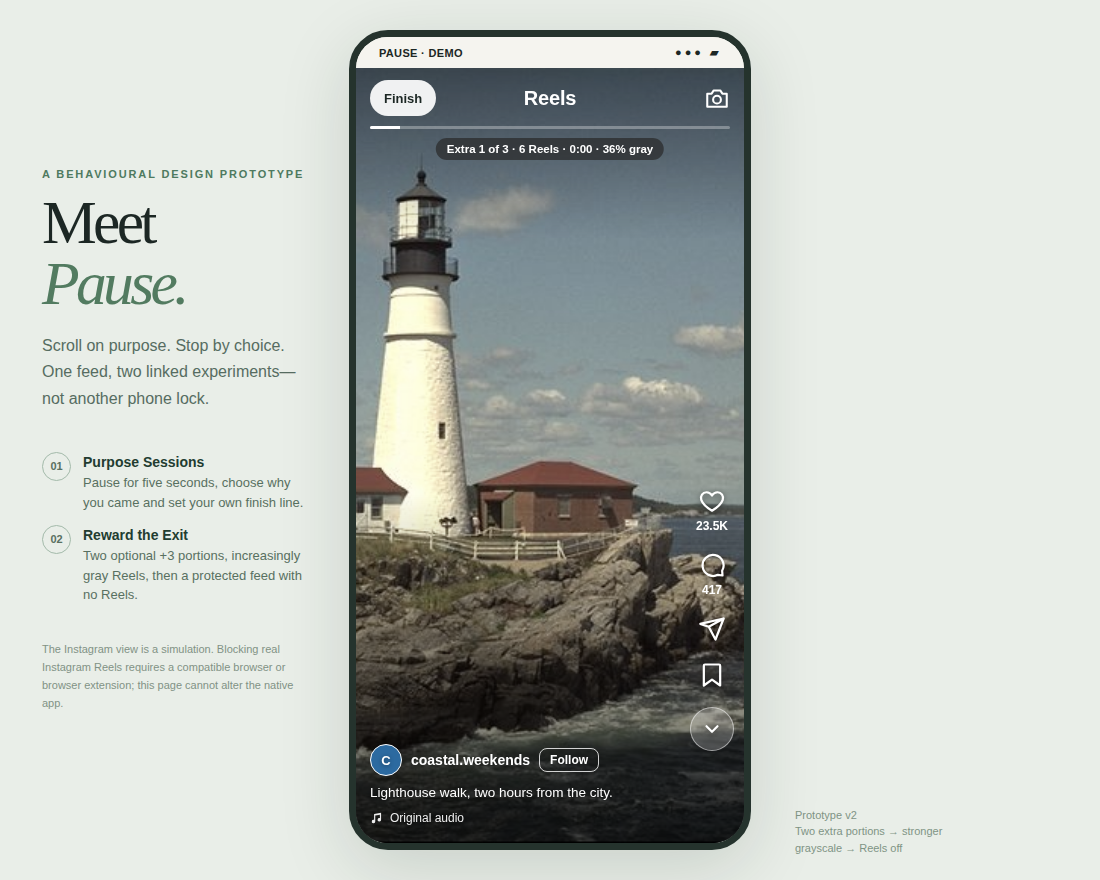
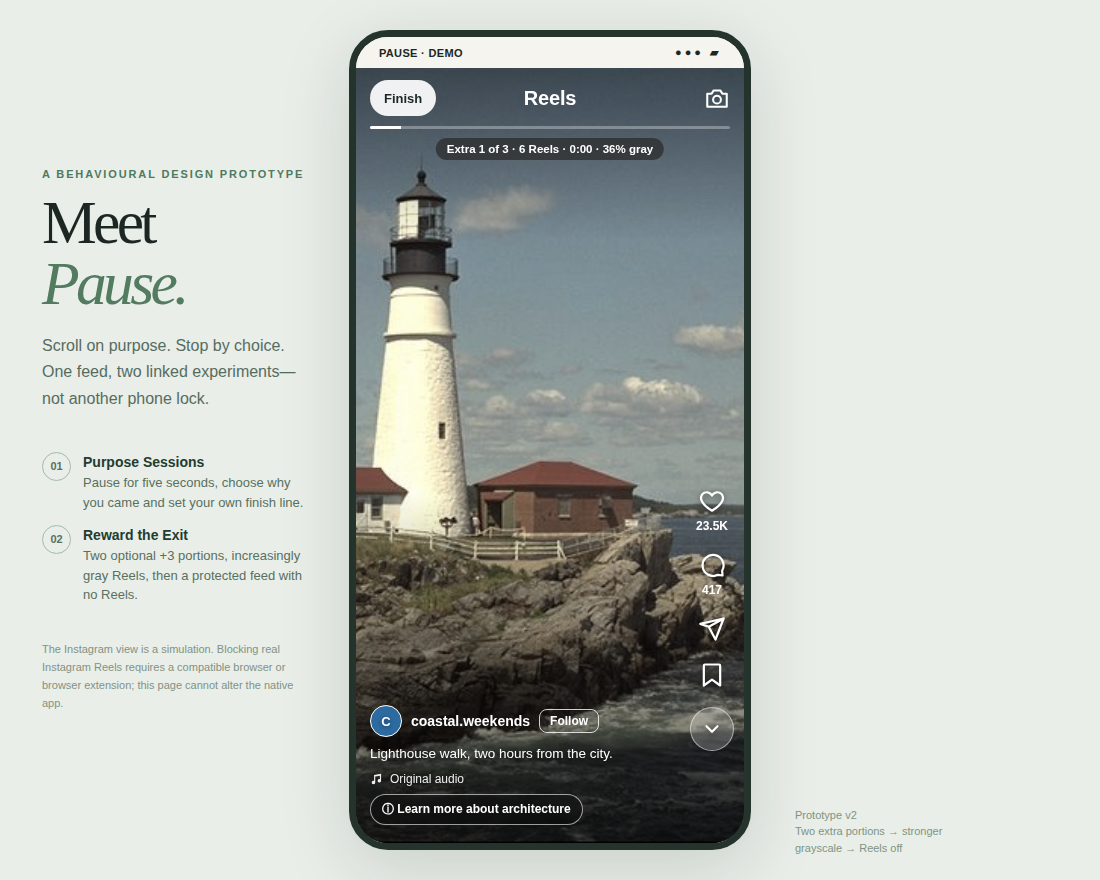
Personalise learning with your own words, demo-feed signals and home My Interests
- Every My Interests question accepts free text, matched to cards by keyword
- New cards: Formula 1, Horyu-ji, little black dress
- Reels 'Learn more' button; confirmed topics listed, removable and clearable
- My Interests section on the home screen; 'Continue to feed' label
- Demo-content note on cards; recipe and walk/stretch exit ideas
- Exit ideas restart from the best fit when free time changes

Claude-Session: https://claude.ai/code/session_01DMhTpXsU3YFuW6W5HLrjFW

Changed region(s): [[0.34, 0.7977, 0.5564, 0.9511]]

diff --git a/index.html b/index.html
@@ -201,6 +201,11 @@
     .web-ext{color:#2f6b4a;font-size:18px;text-decoration:none;padding:4px 6px}
     .web-frame{flex:1;width:100%;min-height:0;border:0;background:#fff}
     .web-foot{flex:none;margin:0;padding:8px 12px calc(10px + env(safe-area-inset-bottom,0px));font-size:11.5px;color:#6a786f;text-align:center;border-top:1px solid #eef1ee}.web-foot a{color:#2f6b4a;font-weight:700}
+    .card-demo{font-size:10.5px!important;color:#8a998d!important;line-height:1.4}
+    .ph-interests{display:flex;flex-direction:column;gap:3px;text-align:left;margin-top:18px;border:0;border-radius:16px;padding:11px 14px;background:rgba(255,255,255,.2);backdrop-filter:blur(10px);color:#fff}
+    .ph-int-h{font-size:12px;font-weight:800;letter-spacing:.06em;text-transform:uppercase;display:flex;justify-content:space-between}.ph-int-h em{font-style:normal;font-weight:700;text-transform:none;letter-spacing:0;text-decoration:underline;text-underline-offset:3px}
+    .ph-int-list{font-size:13px;line-height:1.4;opacity:.95}
+    .learn-more{align-self:flex-start;border:1px solid rgba(255,255,255,.6);background:rgba(0,0,0,.28);color:#fff;border-radius:999px;padding:6px 11px;font-size:12px;font-weight:650;backdrop-filter:blur(6px)}
   </style>
 </head>
 <body>
@@ -346,19 +351,31 @@
     {id:'jeans',tags:['interest:fashion'],title:'The tiny pocket on your jeans was for a watch',color:'#3a5fc4',
      body:'That small pocket inside the front right pocket of many jeans dates back to the late 1800s, when workers carried pocket watches. Levi Strauss and tailor Jacob Davis patented copper-riveted work trousers in 1873, and early designs included a small watch pocket to keep watches safe. Wristwatches later replaced pocket watches, but the pocket stayed. People now use it for coins, keys or guitar picks.',
      quiz:{q:'What was the small jeans pocket originally for?',opts:['Coins','Pocket watches','Matches'],a:1,why:'It was a watch pocket.'},
-     source:{name:'Wikipedia: Jeans',url:'https://en.wikipedia.org/wiki/Jeans'}}
+     source:{name:'Wikipedia: Jeans',url:'https://en.wikipedia.org/wiki/Jeans'}},
+    {id:'f1',tags:['interest:sports','topic:f1'],title:'An F1 car is an upside-down aeroplane',color:'#b3262d',
+     body:'An aeroplane wing is shaped to create lift. A Formula 1 car’s wings are turned the other way, so the air pushes the car down onto the track instead. This force is called downforce, and together with the shaped floor it presses the tyres into the road. The grip lets drivers take corners far faster than tyres alone would allow, with sideways forces of around five to six g.',
+     fact:'Engineers often say that, in theory, an F1 car produces enough downforce at high speed to drive upside down on a ceiling.',
+     source:{name:'Wikipedia: Formula One car',url:'https://en.wikipedia.org/wiki/Formula_One_car'}},
+    {id:'horyuji',tags:['topic:japan','interest:architecture'],title:'Why old Japanese pagodas survive earthquakes',color:'#7c4a2c',
+     body:'Hōryū-ji, a temple near Nara founded by Prince Shōtoku in 607, has wooden buildings from around the late 600s, among the oldest surviving wooden buildings in the world. Its five-storey pagoda has come through centuries of earthquakes. Japanese pagodas have a central pillar, the shinbashira, and stacked storeys that can sway separately, which helps absorb shaking. Carpenters joined the timbers with interlocking joints rather than relying on nails.',
+     quiz:{q:'What is the central pillar of a Japanese pagoda called?',opts:['Torii','Shinbashira','Tatami'],a:1,why:'The shinbashira runs up the centre of the pagoda.'},
+     source:{name:'Wikipedia: Hōryū-ji',url:'https://en.wikipedia.org/wiki/H%C5%8Dry%C5%AB-ji'}},
+    {id:'lbd',tags:['interest:fashion'],title:'The little black dress was called “Chanel’s Ford”',color:'#1f1f24',
+     body:'In 1926, American Vogue published a drawing of a short, simple black dress by Coco Chanel. The magazine compared it to the Ford Model T, calling it “Chanel’s Ford”, because, like the car, it was simple, practical and available to many women. Before then, black was mostly worn for mourning. The little black dress became a wardrobe staple that designers still reinvent almost every season.',
+     quiz:{q:'What did Vogue compare Chanel’s black dress to in 1926?',opts:['A Ford car','A tuxedo','A uniform'],a:0,why:'It called the dress “Chanel’s Ford”.'},
+     source:{name:'Wikipedia: Little black dress',url:'https://en.wikipedia.org/wiki/Little_black_dress'}},
   ];
   /* Shown when the profile is empty. */
   const DEFAULT_CARD='variable';
   /* ---------- Personalisation (stored only in this browser) ---------- */
   const PREF={
-    interests:[['psychology','Psychology'],['history','History'],['science','Science'],['books','Books'],['art','Art'],['finance','Finance'],['fitness','Fitness'],['cooking','Cooking'],['architecture','Architecture'],['nature','Nature'],['travel','Travel'],['languages','Languages'],['music','Music'],['technology','Technology'],['fashion','Fashion']],
+    interests:[['psychology','Psychology'],['history','History'],['science','Science'],['books','Books'],['art','Art'],['finance','Finance'],['fitness','Fitness'],['cooking','Cooking'],['architecture','Architecture'],['nature','Nature'],['travel','Travel'],['languages','Languages'],['music','Music'],['technology','Technology'],['fashion','Fashion'],['sports','Sports']],
     places:[['kyoto','Kyoto'],['rome','Rome'],['paris','Paris'],['barcelona','Barcelona'],['istanbul','Istanbul'],['london','London'],['new-york','New York']],
     fields:[['marketing','Marketing'],['design','Design'],['computing','Computer science'],['engineering','Engineering'],['medicine','Medicine & health'],['business','Business & finance'],['education','Education'],['psychology','Psychology'],['architecture','Architecture'],['arts','Arts & media'],['law','Law'],['student','Still deciding']]
   };
   const PHRASES={kyoto:['Japanese','Arigatō gozaimasu','ah-ree-GAH-toh go-ZAI-mass','Thank you (polite)'],rome:['Italian','Grazie mille','GRAHT-see-eh MEEL-leh','Thanks a lot'],paris:['French','Excusez-moi','ex-koo-ZAY mwah','Excuse me'],barcelona:['Catalan','Moltes gràcies','MOL-tes GRAH-see-es','Thank you very much'],istanbul:['Turkish','Teşekkür ederim','teh-shek-KEWR eh-deh-reem','Thank you']};
   const store={get:(k,d)=>{try{const v=JSON.parse(localStorage.getItem(k));return v==null?d:v}catch(e){return d}},set:(k,v)=>{try{localStorage.setItem(k,JSON.stringify(v))}catch(e){}},del:k=>{try{localStorage.removeItem(k)}catch(e){}}};
-  const EMPTY_PROFILE={interests:[],ig:[],visited:[],planned:[],visitedOther:[],plannedOther:[],field:[],explore:[],book:'',declined:[],onboarded:false,dismissed:false};
+  const EMPTY_PROFILE={interests:[],ig:[],visited:[],planned:[],visitedOther:[],plannedOther:[],field:[],explore:[],interestsOther:[],igOther:[],fieldOther:[],exploreOther:[],inferred:[],book:'',declined:[],onboarded:false,dismissed:false};
   let profile={...JSON.parse(JSON.stringify(EMPTY_PROFILE)),...store.get('pause_profile',{})};
   let feedback=store.get('pause_feedback',{});   // cardId -> 'interesting' | 'not' | 'knew'
   let seen=store.get('pause_seen',{});           // cardId -> times shown
@@ -371,9 +388,31 @@
      likes, saved posts or private activity. */
   const INTEREST_SOURCES={manual:()=>profile,demoFeed:()=>topicCounts(),instagramImport:null};
   const labelOf=(list,k)=>nameOf(PREF[list],k)||k;
-  const hasProfile=()=>['interests','ig','visited','planned','field','explore'].some(k=>profile[k].length)||profile.visitedOther.length||profile.plannedOther.length;
-  function topicCounts(){const c={};Object.values(saves).forEach(t=>{if(t)c[t]=(c[t]||0)+1});return c}
-  function pendingSuggestion(){const c=topicCounts();return Object.keys(c).find(t=>c[t]>=2&&!profile.interests.includes(t)&&!profile.ig.includes(t)&&!profile.declined.includes(t))||''}
+  const LIST_KEYS=['interests','ig','visited','planned','field','explore','visitedOther','plannedOther','interestsOther','igOther','fieldOther','exploreOther','inferred'];
+  const hasProfile=()=>LIST_KEYS.some(k=>(profile[k]||[]).length);
+  let learnMore=store.get('pause_learnmore',{});  // topic -> "Learn more" taps in the demo feed
+  /* Signals from the simulated feed only: saves plus "Learn more" taps, per topic. */
+  function topicCounts(){const c={};Object.values(saves).forEach(t=>{if(t)c[t]=(c[t]||0)+1});Object.entries(learnMore).forEach(([t,n])=>{c[t]=(c[t]||0)+n});return c}
+  /* Match the user's own words ("Formula 1", "Japanese architecture", "UX design") to card tags. Plain keyword matching, no AI. */
+  const KEYWORDS=[
+    [/formula ?1|\bf1\b|motorsport|grand prix|racing/,['interest:sports','topic:f1']],
+    [/japan|japanese|kyoto|nara|temple|pagoda|shrine/,['topic:japan','place:kyoto']],
+    [/\brome\b|roman|italy|italian/,['place:rome']],[/paris|france|french/,['place:paris']],[/barcelona|spain|spanish|gaud[ií]|catalan/,['place:barcelona']],
+    [/istanbul|turkey|turkish|byzantine/,['place:istanbul']],[/london|england|british/,['place:london']],[/new york|\bnyc\b|manhattan/,['place:new-york']],
+    [/marketing|advertis|brand|consumer|sales/,['field:marketing']],[/design|\bux\b|\bui\b|graphic/,['field:design']],
+    [/software|develop|programm|coding|computer|data|\bai\b|tech/,['field:computing','interest:technology']],[/engineer/,['field:engineering']],
+    [/medic|doctor|nurs|health|pharma|hospital/,['field:medicine']],[/teach|educat|school|tutor/,['field:education']],
+    [/financ|bank|invest|money|account|economic/,['interest:finance','field:business']],[/business|startup|entrepreneur|management/,['field:business']],
+    [/cook|food|bak|chef|recipe|kitchen/,['interest:cooking']],[/fashion|style|clothing|textile/,['interest:fashion']],
+    [/music|guitar|piano|sing|orchestra/,['interest:music']],[/book|read|novel|literature|poetry/,['interest:books']],
+    [/\bart\b|painting|museum|gallery|artist/,['interest:art']],[/architect|building/,['interest:architecture']],
+    [/psych|behaviou?r|mind|brain/,['interest:psychology']],[/histor|ancient|medieval/,['interest:history']],
+    [/scien|physics|chemistry|biology|space|astronom/,['interest:science']],[/bird|nature|animal|wildlife|plant|garden/,['interest:nature']],
+    [/travel|trip|backpack/,['interest:travel']],[/language|portuguese|linguist|vocabulary/,['interest:languages']],
+    [/fitness|gym|running|yoga|workout|sport|football|tennis|cycling/,['interest:fitness','interest:sports']]];
+  const matchTags=text=>{const t=String(text).toLowerCase(),out=[];KEYWORDS.forEach(([re,tags])=>{if(re.test(t))tags.forEach(x=>{if(!out.includes(x))out.push(x)})});return out};
+  const placeIn=text=>{const tag=matchTags(text).find(x=>x.startsWith('place:'));return tag?tag.slice(6):''};
+  function pendingSuggestion(){const c=topicCounts();return Object.keys(c).find(t=>c[t]>=2&&!profile.interests.includes(t)&&!profile.ig.includes(t)&&!profile.inferred.includes(t)&&!profile.declined.includes(t))||''}
   /* Pick ONE card: planned trips first, then subjects to explore, work, interests, Instagram interests, places visited.
      Cards rated "Not for me" or "Already knew this" are skipped; unseen cards win ties. */
   function pickCard(){const sources=[
@@ -382,7 +421,12 @@
       ...profile.field.map(f=>['field:'+f,`Because you work or study in ${labelOf('fields',f).toLowerCase()}`,4]),
       ...profile.interests.map(i=>['interest:'+i,`Because you’re into ${labelOf('interests',i).toLowerCase()}`,4]),
       ...profile.ig.map(i=>['interest:'+i,`Because you watch ${labelOf('interests',i).toLowerCase()} on Instagram`,3]),
-      ...profile.visited.map(p=>['place:'+p,`Because you’ve been to ${labelOf('places',p)}`,3])];
+      ...profile.visited.map(p=>['place:'+p,`Because you’ve been to ${labelOf('places',p)}`,3]),
+      ...profile.inferred.map(i=>['interest:'+i,`Because you often save ${labelOf('interests',i).toLowerCase()} posts`,3])];
+    /* The user's own words, matched to cards by keyword. */
+    [['plannedOther',6,t=>`Because you’re planning to visit ${t}`],['exploreOther',5,t=>`Because you want to learn about ${t}`],['fieldOther',4,t=>`Because you work or study in ${t}`],
+     ['interestsOther',4,t=>`Because you’re into ${t}`],['igOther',3,t=>`Because you watch ${t} on Instagram`],['visitedOther',3,t=>`Because you’ve been to ${t}`]]
+      .forEach(([k,w,why])=>profile[k].forEach(text=>matchTags(text).forEach(tag=>sources.push([tag,why(`“${esc(text)}”`),w]))));
     let best=null;
     LEARN_CARDS.forEach(card=>{if(feedback[card.id]==='not'||feedback[card.id]==='knew')return;
       sources.forEach(([tag,why,w])=>{if(!card.tags.includes(tag))return;const score=w*10-(seen[card.id]||0)*25+(feedback[card.id]==='interesting'?-3:0);
@@ -453,6 +497,7 @@
     return `<div class="phone-home">
       <div class="ph-clock"><div class="ph-time">${t}</div><div class="ph-date">${date}</div></div>
       <div class="ph-grid"><button class="ph-app" data-action="open" aria-label="Open Instagram"><span class="ph-tile">${IG_GLYPH}</span><span class="ph-label">Instagram</span></button><button class="ph-app" data-action="open-profile" aria-label="Pause: My Interests"><span class="ph-tile pause-tile">${PAUSE_GLYPH}</span><span class="ph-label">Pause</span></button>${OTHER_APPS().slice(0,6).map(([n,bg,svg])=>`<button class="ph-app other" data-action="other-app" aria-label="${n}"><span class="ph-tile" style="background:${bg}">${svg}</span><span class="ph-label">${n}</span></button>`).join('')}</div>
+      ${hasProfile()?`<button class="ph-interests" data-action="open-profile"><span class="ph-int-h">My Interests <em>Edit</em></span><span class="ph-int-list">${profileSummary()}</span></button>`:''}
       <div class="spacer"></div>
       ${!profile.onboarded&&!profile.dismissed&&!hasProfile()?`<div class="ph-note ph-invite"><b>Make Pause yours</b>Add a few interests and places so learning cards fit you. Optional, about a minute.<div class="btn-row"><button class="btn btn-sm" data-action="start-onboard" data-return="home">Set up</button><button class="btn alt btn-sm" data-action="dismiss-onboard">Not now</button></div></div>`:''}
       ${pendingSuggestion()?`<div class="ph-note">${suggestBox(pendingSuggestion())}</div>`:''}
@@ -468,7 +513,7 @@
     <p class="lede" style="text-align:center">Pause for five seconds. Then choose why you’re opening Instagram and where you’ll stop.</p>
     <div class="breath-orbit" aria-label="Breathing countdown"><span class="breath-count" id="breath-count">${state.countdown}</span></div>
     <p class="breath-caption" id="breath-caption">Breathe in, then out.</p><div class="spacer"></div>
-    <button class="btn full" data-action="purpose" ${state.countdown?'disabled':''}>${state.countdown?'Pause for '+state.countdown+'s':'Continue to Instagram →'}</button>
+    <button class="btn full" data-action="purpose" ${state.countdown?'disabled':''}>${state.countdown?'Pause for '+state.countdown+'s':'Continue to feed →'}</button>
     <button class="btn alt full" style="margin-top:10px" data-action="learn">Learn something instead ✦</button>
     <button class="btn text full" data-action="go-home">Leave for now</button>
     <p class="tip">You can always leave. Nothing is blocked.</p>
@@ -487,19 +532,20 @@
   }
   /* ---------- My Interests: onboarding (optional, shown once) and profile ---------- */
   const chips=(key,list)=>`<div class="chip-wrap">${PREF[list].map(([k,v])=>`<button class="pill sm${profile[key].includes(k)?' selected':''}" data-action="toggle-pref" data-key="${key}" data-val="${k}" aria-pressed="${profile[key].includes(k)}">${v}</button>`).join('')}</div>`;
-  const otherPlaces=key=>`<div class="add-row"><label class="sr-only" for="add-${key}">Add another place</label><input id="add-${key}" class="text-in" maxlength="40" placeholder="Somewhere else?"/><button class="btn quiet btn-sm" data-action="add-place" data-key="${key}">Add</button></div>
+  const customAdd=(key,ph)=>`<div class="add-row"><label class="sr-only" for="add-${key}">${ph}</label><input id="add-${key}" class="text-in" maxlength="40" placeholder="${ph}"/><button class="btn quiet btn-sm" data-action="add-place" data-key="${key}">Add</button></div>
     ${profile[key].length?`<div class="chip-wrap">${profile[key].map((p,i)=>`<button class="pill sm selected" data-action="remove-place" data-key="${key}" data-i="${i}" aria-label="Remove ${esc(p)}">${esc(p)} ×</button>`).join('')}</div>`:''}`;
+  const otherPlaces=key=>customAdd(key,'Somewhere else?');
   const bookField=()=>profile.interests.includes('books')?`<label class="field-label" for="book-in">Currently reading (optional)</label><input id="book-in" class="text-in" maxlength="60" placeholder="Book title" value="${esc(profile.book)}" data-input="book"/>`:'';
   const OB_STEPS=[
     ()=>`<h2>What are you<br/><i>into?</i></h2><p class="lede">Pick a few. Pause uses them to choose one learning card, never a feed.</p>
-      <div class="pref-block">${chips('interests','interests')}</div>${bookField()}
-      <details class="pref-more"${profile.ig.length?' open':''}><summary>What do you watch a lot of on Instagram?</summary><p class="small">Chosen by you. Pause does not read your Instagram account.</p>${chips('ig','interests')}</details>`,
+      <div class="pref-block">${chips('interests','interests')}</div>${customAdd('interestsOther','Something else? e.g. Formula 1')}${bookField()}
+      <details class="pref-more"${profile.ig.length||profile.igOther.length?' open':''}><summary>What do you watch, like or save a lot on Instagram?</summary><p class="small">Chosen by you. Pause does not read your Instagram account.</p>${chips('ig','interests')}${customAdd('igOther','e.g. Japanese architecture')}</details>`,
     ()=>`<h2>Places</h2><p class="lede">Where you’ve been and where you’re going.</p>
       <h3 class="pref-h">I’ve been to</h3>${chips('visited','places')}${otherPlaces('visitedOther')}
       <h3 class="pref-h">I’m planning to visit</h3>${chips('planned','places')}${otherPlaces('plannedOther')}`,
     ()=>`<h2>Work and<br/><i>curiosity</i></h2><p class="lede">What you do, and what you’d like to know more about.</p>
-      <h3 class="pref-h">I work or study in</h3>${chips('field','fields')}
-      <h3 class="pref-h">I’d like to explore</h3>${chips('explore','interests')}`
+      <h3 class="pref-h">What I do (work or study)</h3>${chips('field','fields')}${customAdd('fieldOther','Your own words, e.g. UX research')}
+      <h3 class="pref-h">I’d like to learn more about</h3>${chips('explore','interests')}${customAdd('exploreOther','e.g. Roman history')}`
   ];
   function onboard(){const n=state.obStep,last=n===OB_STEPS.length-1;return `<div class="inner">
       <div class="brand-row"><button class="btn text btn-sm" data-action="ob-close">Not now</button>${step('MY INTERESTS · '+(n+1)+' OF '+OB_STEPS.length)}</div>
@@ -515,18 +561,23 @@
       <h2 style="margin:14px 0 6px">My Interests</h2>
       <p class="lede">Pause uses these to pick one learning card and one idea for after you scroll. Tap to add or remove. Saved only on this device.</p>
       ${sug?suggestBox(sug):''}
-      <section class="pref-card"><h3 class="pref-h">Interests</h3>${chips('interests','interests')}${bookField()}</section>
-      <section class="pref-card"><h3 class="pref-h">I watch a lot of this on Instagram</h3><p class="small">Chosen by you.</p>${chips('ig','interests')}</section>
+      <section class="pref-card"><h3 class="pref-h">Interests</h3>${chips('interests','interests')}${customAdd('interestsOther','Something else?')}${bookField()}</section>
+      <section class="pref-card"><h3 class="pref-h">I watch, like or save this on Instagram</h3><p class="small">Chosen by you.</p>${chips('ig','interests')}${customAdd('igOther','Add a topic')}</section>
+      <section class="pref-card"><h3 class="pref-h">From the demo feed</h3><p class="small">Interests you confirmed after saving or tapping “Learn more”. Tap to remove.</p>
+        ${profile.inferred.length?`<div class="chip-wrap">${profile.inferred.map((t,i)=>`<button class="pill sm selected" data-action="remove-place" data-key="inferred" data-i="${i}" aria-label="Remove ${labelOf('interests',t)}">${labelOf('interests',t)} ×</button>`).join('')}</div>`:'<p class="small">None yet.</p>'}
+        ${Object.keys(topicCounts()).length?`<p class="small" style="margin-top:8px">Signals so far: ${Object.entries(topicCounts()).map(([t,n])=>`${labelOf('interests',t).toLowerCase()} (${n})`).join(', ')}</p><button class="btn text btn-sm" data-action="clear-signals">Clear demo-feed signals</button>`:''}</section>
       <section class="pref-card"><h3 class="pref-h">I’ve been to</h3>${chips('visited','places')}${otherPlaces('visitedOther')}</section>
       <section class="pref-card"><h3 class="pref-h">I’m planning to visit</h3>${chips('planned','places')}${otherPlaces('plannedOther')}</section>
-      <section class="pref-card"><h3 class="pref-h">I work or study in</h3>${chips('field','fields')}</section>
-      <section class="pref-card"><h3 class="pref-h">I’d like to explore</h3>${chips('explore','interests')}</section>
+      <section class="pref-card"><h3 class="pref-h">What I do (work or study)</h3>${chips('field','fields')}${customAdd('fieldOther','Your own words')}</section>
+      <section class="pref-card"><h3 class="pref-h">I’d like to learn more about</h3>${chips('explore','interests')}${customAdd('exploreOther','Add a subject')}</section>
       <section class="pref-card"><h3 class="pref-h">Instagram import</h3><p class="small">Not available in this prototype. A future version could let you upload your own Instagram data export, only with your consent. Pause will never ask for your Instagram password.</p></section>
       <section class="pref-card"><h3 class="pref-h">Learning history</h3><p class="small">${rated?`You’ve rated ${rated} card${rated===1?'':'s'}. Cards you marked “Not for me” or “Already knew this” are skipped.`:'No cards rated yet.'}</p>${rated||Object.keys(seen).length?'<button class="btn text btn-sm" data-action="clear-history">Clear learning history</button>':''}</section>
       ${state.confirmDelete?'<div class="danger-box"><b>Delete all your preferences?</b><p class="small">This removes your interests, places, ratings and saved-topic signals from this device.</p><div class="btn-row"><button class="btn btn-sm" data-action="delete-all">Delete everything</button><button class="btn alt btn-sm" data-action="cancel-delete">Keep them</button></div></div>':'<button class="btn text full" data-action="ask-delete">Delete all my preferences</button>'}
       <button class="btn text full" data-action="start-onboard">Run the short setup again</button>
     </div>`}
-  function suggestBox(t){const n=topicCounts()[t];return `<div class="suggest"><b>You saved ${n} ${labelOf('interests',t).toLowerCase()} posts in the demo feed.</b><span>Add ${labelOf('interests',t).toLowerCase()} to your interests?</span><div class="btn-row"><button class="btn btn-sm" data-action="accept-suggest" data-topic="${t}">Add it</button><button class="btn alt btn-sm" data-action="decline-suggest" data-topic="${t}">No thanks</button></div></div>`}
+  function profileSummary(){const items=[...profile.planned.map(p=>'✈ '+labelOf('places',p)),...profile.plannedOther.map(t=>'✈ '+esc(t)),...profile.interests.map(i=>labelOf('interests',i)),...profile.interestsOther.map(esc),...profile.field.map(f=>labelOf('fields',f)),...profile.fieldOther.map(esc),...profile.explore.map(i=>labelOf('interests',i)),...profile.exploreOther.map(esc),...profile.inferred.map(i=>labelOf('interests',i)),...profile.ig.map(i=>labelOf('interests',i)),...profile.igOther.map(esc),...profile.visited.map(p=>labelOf('places',p)),...profile.visitedOther.map(esc)];
+    const uniq=[...new Set(items)];return uniq.slice(0,5).join(' · ')+(uniq.length>5?` · +${uniq.length-5} more`:'')}
+  function suggestBox(t){const n=topicCounts()[t];return `<div class="suggest"><b>You saved or tapped “Learn more” on ${n} ${labelOf('interests',t).toLowerCase()} posts in the demo feed.</b><span>Add ${labelOf('interests',t).toLowerCase()} to your interests?</span><div class="btn-row"><button class="btn btn-sm" data-action="accept-suggest" data-topic="${t}">Add it</button><button class="btn alt btn-sm" data-action="decline-suggest" data-topic="${t}">No thanks</button></div></div>`}
 
   /* ---------- One personalised learning card ---------- */
   function enterLearn(from){clearTimers();const pick=pickCard();state.learnFrom=from;state.cardId=pick.card.id;state.cardWhy=pick.why;state.cardPersonal=pick.personal;state.quizPick=null;state.fbNote='';
@@ -548,6 +599,7 @@
          <div class="fb" role="group" aria-label="Was this card for you?">${[['interesting','Interesting'],['not','Not for me'],['knew','Already knew this']].map(([k,v])=>`<button class="pill sm${fb===k?' selected':''}" data-action="feedback" data-v="${k}" aria-pressed="${fb===k}">${v}</button>`).join('')}</div>
          ${state.fbNote?`<p class="fb-note">${state.fbNote}</p>`:''}
          <p class="card-end">That’s the whole card.</p>
+         <p class="card-demo">Curated demo card, checked against the linked source. Not AI-generated and not live news.</p>
        </div>
      </article>
      <div class="spacer"></div>
@@ -558,19 +610,21 @@
   /* ---------- Reward the Exit: one personalised, optional idea ---------- */
   const TIMES=[['2','2 min'],['10','10 min'],['30','30 min']];
   function exitIdeas(){const mins=Number(state.freeTime),r=state.reason,a=state.after,I=k=>profile.interests.includes(k)||profile.explore.includes(k);
-    const planned=profile.planned.find(p=>PHRASES[p]);const ideas=[];
+    const planned=[...profile.planned,...profile.plannedOther.map(placeIn)].find(p=>PHRASES[p]);const ideas=[];
+    const Iw=k=>I(k)||profile.inferred.includes(k)||[...profile.interestsOther,...profile.exploreOther].some(t=>matchTags(t).includes('interest:'+k));
     const add=(id,m,score,title,desc,why)=>{if(m<=mins)ideas.push({id,mins:m,score,title,desc,why})};
     if(planned)add('phrase',2,5+(I('languages')?2:0),`Learn one useful phrase for ${labelOf('places',planned)}`,'Thirty seconds, and you’ll use it on your trip.',`you’re planning to visit ${labelOf('places',planned)}`);
     if(state.finishedBy!=='learn')add('card',2,(r==='learn'?7:3)+(a==='learn'?3:0)+(hasProfile()?1:0),'Learn one thing picked for you','One short card, then you’re done.',r==='learn'?'you came to find something useful':'it takes a minute');
-    add('read',10,(a==='read'?6:0)+(I('books')?4:0)+(r==='habit'&&a==='read'?3:0),profile.book?`Read five pages of ${esc(profile.book)}`:'Read five pages of your book','Pick up where you left off.',I('books')?'you’re into books':'you planned to read afterwards');
-    add('history',10,I('history')?4:0,'Read a history article you’ve saved','Something you chose, not something the feed chose.','you’re into history');
-    add(mins>=10?'walk':'stretch',mins>=10?10:2,(a==='move'?6:0)+(I('fitness')?4:0)+(r==='break'?2:0)+(r==='habit'&&a==='move'?3:0),mins>=10?'Take a short walk':'Stretch for two minutes','Stand up, roll your shoulders, look out of a window.',I('fitness')?'you’re into fitness':'you planned to move afterwards');
+    add('read',10,(a==='read'?6:0)+(Iw('books')?4:0)+(r==='habit'&&a==='read'?3:0),profile.book?`Read five pages of ${esc(profile.book)}`:'Read five pages of your book','Pick up where you left off.',I('books')?'you’re into books':'you planned to read afterwards');
+    add('recipe',30,Iw('cooking')?5:0,'Try a recipe you saved','Cook something you bookmarked instead of scrolling past more.','you’re into cooking');
+    add('history',10,Iw('history')?4:0,'Read a history article you’ve saved','Something you chose, not something the feed chose.','you’re into history');
+    add(mins>=10?'walk':'stretch',mins>=10?10:2,(a==='move'?6:0)+(Iw('fitness')?4:0)+(r==='break'?2:0)+(r==='habit'&&a==='move'?3:0),mins>=10?'Take a five-minute walk or stretch':'Stretch for two minutes','Stand up, roll your shoulders, look out of a window.',Iw('fitness')?'you’re into fitness':'you planned to move afterwards');
     add('eyes',2,(a==='rest'?6:0)+(r==='break'?2:0),'Rest your eyes','Look at something far away for twenty seconds.','you wanted a break');
     add('friend',2,(a==='friend'?6:0)+(r==='friends'?6:0),'Message one friend directly','Skip the feed and send one real message.',r==='friends'?'you came to catch up with friends':'you planned to message a friend');
     if(r==='habit')add('puzzle',2,3,'Try a two-minute puzzle','One question, one answer. Then you’re done.','you opened Instagram out of habit');
     return ideas.filter(x=>x.score>0).sort((x,y)=>y.score-x.score);}
   function exitScreen(){const early=state.finishedBy==='early',detour=state.finishedBy==='learn';const title=detour?'You chose a different kind of break.':early?'You decided when to stop.':'You reached your finish line.';
-    const ideas=exitIdeas();const idea=ideas.length?ideas[state.ideaIdx%ideas.length]:null;const ph=idea&&idea.id==='phrase'?PHRASES[profile.planned.find(p=>PHRASES[p])]:null;
+    const ideas=exitIdeas();const idea=ideas.length?ideas[state.ideaIdx%ideas.length]:null;const ph=idea&&idea.id==='phrase'?PHRASES[[...profile.planned,...profile.plannedOther.map(placeIn)].find(p=>PHRASES[p])]:null;
     return `<div class="inner">
       <div class="brand-row">${brand()}${step('02 · REWARD THE EXIT')}</div>
       <div class="checkmark" style="margin:18px 0 16px">✓</div><h2>${title}</h2>
@@ -664,6 +718,7 @@
         <div class="reel-user"><span class="av" style="background:${reel.color}">${reel.user[0].toUpperCase()}</span>${reel.user}<button class="follow" tabindex="-1">Follow</button></div>
         <p class="reel-cap">${reel.cap}</p>
         <p class="reel-audio">${ICON.music}${reel.audio}</p>
+        ${TOPIC[reel.img]?`<button class="learn-more" data-action="learn-more" data-topic="${TOPIC[reel.img]}">ⓘ Learn more about ${labelOf('interests',TOPIC[reel.img]).toLowerCase()}</button>`:''}
       </div>
     </div>
     ${state.notice?`<div class="feed-nudge" role="status">You came here to <b>${esc(nameOf(OPTIONS.reasons,state.reason).toLowerCase())}</b>. Still what you want to do?<button class="nudge-x" data-action="dismiss-notice" aria-label="Dismiss">×</button></div>`:''}`;
@@ -738,7 +793,7 @@
   function goHome(){clearTimers();state.screen='home';state.notice=false;render()}
   function open(){clearTimers();if(state.platform==='instagram'&&state.reelsDisabled){state.screen='protected-feed';render();return}
     state.screen='pause';state.countdown=5;startCountdown()}
-  function startCountdown(){clearInterval(countdownTimer);render();if(state.countdown<=0)return;countdownTimer=setInterval(()=>{if(state.screen!=='pause'){clearInterval(countdownTimer);return}state.countdown--;const number=document.getElementById('breath-count');if(number)number.textContent=state.countdown||'✓';const button=root.querySelector('[data-action="purpose"]');if(button){button.disabled=!!state.countdown;button.textContent=state.countdown?'Pause for '+state.countdown+'s':'Continue to Instagram →'}if(state.countdown<=0){clearInterval(countdownTimer);const caption=document.getElementById('breath-caption');if(caption)caption.textContent='Now choose: Instagram, one thing to learn, or leave.'}},1000)}
+  function startCountdown(){clearInterval(countdownTimer);render();if(state.countdown<=0)return;countdownTimer=setInterval(()=>{if(state.screen!=='pause'){clearInterval(countdownTimer);return}state.countdown--;const number=document.getElementById('breath-count');if(number)number.textContent=state.countdown||'✓';const button=root.querySelector('[data-action="purpose"]');if(button){button.disabled=!!state.countdown;button.textContent=state.countdown?'Pause for '+state.countdown+'s':'Continue to feed →'}if(state.countdown<=0){clearInterval(countdownTimer);const caption=document.getElementById('breath-caption');if(caption)caption.textContent='Now choose: Instagram, one thing to learn, or leave.'}},1000)}
   function begin(){if(state.platform==='instagram'&&state.reelsDisabled){state.screen='protected-feed';render();return}
     clearTimers();save();state.views=1;state.checkpoint=state.limit==='120'?120:Number(state.limit);state.extraRounds=0;state.extraRoundStart=0;state.elapsed=0;state.sessionStart=Date.now();state.progress=0;state.noticeShown=false;state.notice=false;state.finishedBy='';state.screen='feed';lastTick=performance.now();render();feedTimer=setInterval(tick,100)}
   function tick(){if(state.screen!=='feed')return;if(document.hidden){lastTick=performance.now();return}const now=performance.now(),delta=Math.min(250,now-lastTick);lastTick=now;state.elapsed+=delta/1000;state.progress=Math.min(100,state.progress+delta/70);const bar=document.getElementById('reel-progress');if(bar)bar.style.width=state.progress+'%';const countEl=document.getElementById('feed-count');if(countEl)countEl.textContent=displayCount();const art=document.getElementById('reel-art');if(art)art.style.filter=`grayscale(${grayPercent()}%)`;const label=document.getElementById('gray-label');if(label&&state.extraRounds)label.textContent=`Round ${state.extraRounds} of 2 · ${grayPercent()}% gray`;if(state.progress>=100)next();}
@@ -749,7 +804,7 @@
   function finish(how){clearTimers();state.screen='exit';state.finishedBy=how;state.nextPick='';state.ideaIdx=0;render()}
   function continueAfter(){if(state.extraRounds>=2)return;state.extraRounds++;state.views++;state.extraRoundStart=state.views;state.checkpoint=state.views+2;state.notice=false;state.screen='feed';state.progress=0;clearInterval(feedTimer);lastTick=performance.now();render();feedTimer=setInterval(tick,100)}
   root.addEventListener('click',event=>{
-    const choice=event.target.closest('[data-set]');if(choice){const key=choice.dataset.set;state[key]=choice.dataset.value;save();render();return}
+    const choice=event.target.closest('[data-set]');if(choice){const key=choice.dataset.set;state[key]=choice.dataset.value;if(key==='freeTime'){state.ideaIdx=0;state.nextPick=''}save();render();return}
     const target=event.target.closest('[data-action]');if(!target||target.disabled)return;
     const action=target.dataset.action;
     switch(action){case 'open':open();break;case 'go-home':goHome();break;case 'purpose':if(state.countdown<=0){clearTimers();state.screen='setup';render();}break;
@@ -773,16 +828,19 @@
       case 'toggle-pref':{const k=target.dataset.key,v=target.dataset.val,arr=profile[k];const at=arr.indexOf(v);if(at>=0)arr.splice(at,1);else arr.push(v);saveProfile();keepScroll(render);break;}
       case 'add-place':{const k=target.dataset.key,inp=document.getElementById('add-'+k),v=(inp&&inp.value||'').trim().slice(0,40);if(v&&!profile[k].some(x=>x.toLowerCase()===v.toLowerCase())){profile[k].push(v);saveProfile()}keepScroll(render);break;}
       case 'remove-place':profile[target.dataset.key].splice(+target.dataset.i,1);saveProfile();keepScroll(render);break;
-      case 'accept-suggest':{const t=target.dataset.topic;if(!profile.interests.includes(t))profile.interests.push(t);saveProfile();toast(`Added ${labelOf('interests',t).toLowerCase()} to your interests.`);keepScroll(render);break;}
+      case 'accept-suggest':{const t=target.dataset.topic;if(!profile.inferred.includes(t))profile.inferred.push(t);saveProfile();toast(`Added ${labelOf('interests',t).toLowerCase()} to your interests.`);keepScroll(render);break;}
       case 'decline-suggest':profile.declined.push(target.dataset.topic);saveProfile();keepScroll(render);break;
       case 'clear-history':feedback={};seen={};store.del('pause_feedback');store.del('pause_seen');keepScroll(render);break;
       case 'ask-delete':state.confirmDelete=true;keepScroll(render);break;
       case 'cancel-delete':state.confirmDelete=false;keepScroll(render);break;
-      case 'delete-all':profile={...EMPTY_PROFILE,interests:[],ig:[],visited:[],planned:[],visitedOther:[],plannedOther:[],field:[],explore:[],declined:[]};feedback={};seen={};saves={};['pause_profile','pause_feedback','pause_seen','pause_saves'].forEach(store.del);state.confirmDelete=false;toast('Your preferences were deleted.');render();break;
+      case 'delete-all':profile=JSON.parse(JSON.stringify(EMPTY_PROFILE));feedback={};seen={};saves={};learnMore={};['pause_profile','pause_feedback','pause_seen','pause_saves','pause_learnmore'].forEach(store.del);state.confirmDelete=false;toast('Your preferences were deleted.');render();break;
       case 'feedback':{const v=target.dataset.v;if(feedback[state.cardId]===v){delete feedback[state.cardId];state.fbNote=''}else{feedback[state.cardId]=v;state.fbNote=v==='interesting'?'Glad it was worth it.':v==='not'?'Got it. You won’t see this card again.':'Nice. We’ll skip this one next time.'}store.set('pause_feedback',feedback);keepScroll(render);break;}
       case 'quiz':state.quizPick=+target.dataset.i;keepScroll(render);break;
       case 'do-idea':{const id=target.dataset.id;state.nextPick=id;if(id==='card')enterLearn('exit');else if(id==='puzzle'){state.puzzle++;state.puzzleShown=false;state.screen='puzzle';render()}else keepScroll(render);break;}
       case 'next-idea':state.ideaIdx++;state.nextPick='';keepScroll(render);break;
+      case 'learn-more':{const t=target.dataset.topic;learnMore[t]=(learnMore[t]||0)+1;store.set('pause_learnmore',learnMore);const n=topicCounts()[t]||0;
+        toast(pendingSuggestion()===t?`Noted. You’ve shown interest in ${labelOf('interests',t).toLowerCase()} ${n} times. Pause will ask before adding it to your interests.`:`Noted. Pause may suggest ${labelOf('interests',t).toLowerCase()} for a learning card later.`);break;}
+      case 'clear-signals':saves={};learnMore={};store.del('pause_saves');store.del('pause_learnmore');keepScroll(render);break;
       case 'save-item':{const item=target.dataset.item,topic=target.dataset.topic;if(saves[item]!==undefined){delete saves[item];target.classList.remove('on');toast('Removed from saved.')}else{saves[item]=topic;target.classList.add('on');const n=topicCounts()[topic]||0;toast(n>=2&&pendingSuggestion()===topic?`Saved. That’s ${n} ${labelOf('interests',topic).toLowerCase()} posts. Pause will ask before adding it to your interests.`:'Saved.')}store.set('pause_saves',saves);break;}
       case 'open-web':state.webUrl=target.dataset.url;state.learnScroll=root.scrollTop;state.screen='web';render();break;
       case 'web-done':state.screen='learn';render();root.scrollTop=state.learnScroll||0;break;

diff --git a/README.md b/README.md
@@ -5,7 +5,7 @@ Double-click `index.html` to use this **offline demo** (keep the `photos/` folde
 ## Exact experience
 
 1. The demo opens on a phone home screen. Tap the **Instagram** app. Pause steps in first with a five-second timer. Instagram is a simulation; the demo does not connect to your account.
-2. Complete the five-second pause and choose the three commitments (why you're here, your finish line, and what you might do afterwards). After the pause there are three options: **Continue to Instagram**, **Learn something instead**, or **Leave for now**. **Progressive grayscale is checked by default**. It remains off visually during the initial portion.
+2. Complete the five-second pause and choose the three commitments (why you're here, your finish line, and what you might do afterwards). After the pause there are three options: **Continue to feed**, **Learn something instead**, or **Leave for now**. **Progressive grayscale is checked by default**. It remains off visually during the initial portion.
 3. Scroll to the initial finish line (for quick tests, select **5 Reels**) using swipe up, mouse wheel or Next. Select **+3 more Reels** at the checkpoint. The next Reel is a new one, grayscale begins **immediately at 35%** and fades steadily to **65%** across these three Reels.
 4. At the second checkpoint, select the **second and final +3 Reels**. Grayscale begins at **70%** and fades steadily to **100%** across these three Reels.
 5. At the third checkpoint **there is no more +3 button**. The Reels section is disabled and only **regular feed and DMs** remain accessible; the protected view excludes in-feed Reels as well. You can browse sample posts, enter a sample chat, and send a **local-only demo message**.
@@ -29,9 +29,11 @@ The counter under the progress bar always shows Reels and time together, for exa
 
 ## Personalised micro-learning
 
-**My Interests (optional).** The first time, the home screen offers a short, skippable setup in three steps: interests (plus what you watch a lot of on Instagram, chosen by you), places you've been and places you're planning to visit, and work or study plus subjects to explore. Every step can be skipped, it isn't shown again, and everything can be edited or deleted later from the **Pause** app on the home screen.
+**My Interests (optional).** The first time, the home screen offers a short, skippable setup in three steps: interests (plus what you watch, like or save a lot on Instagram, chosen by you), places you've been and places you're planning to visit, and work or study plus subjects you'd like to learn more about. Every question has chips **and a box for your own words** (for example "Formula 1", "Marketing student" or "Nara, Japan"). Every step can be skipped and setup isn't shown again. Once you have a profile, a **My Interests** section on the home screen shows it; tap it (or the **Pause** app) to edit or delete anything.
 
-**Learn something instead.** After the five-second pause, this shows **one** card picked from your profile: planned trips first, then subjects to explore, work or study, interests, Instagram interests, and places visited. Each card has:
+Your own words are matched to card topics with a plain keyword list (for example "marketing" → the scarcity card, "Formula 1" → the F1 card, "Japan" → the Kyoto card). This is simple matching, not AI.
+
+**Learn something instead.** After the five-second pause, this shows **one** card (examples: Kyoto, Rome, marketing, Formula 1, fashion, cooking) picked from your profile: planned trips first, then subjects to explore, work or study, interests, Instagram interests, and places visited. Each card has:
 - a heading saying why it was picked ("Because you're planning to visit Rome")
 - a photo where a relevant one exists (sky, parrots, lighthouse); otherwise a colour band
 - a 60–100-word explanation (about 30–60 seconds)
@@ -39,12 +41,13 @@ The counter under the progress bar always shows Reels and time together, for exa
 - a source link (Wikipedia, NASA, WHO, Britannica, Investopedia). Wikipedia sources open inside the phone in a small viewer with **Done** to return to the card; other sites don't allow being shown inside another page, so they open in a new tab
 - feedback: Interesting / Not for me / Already knew this (cards marked "Not for me" or "Already knew this" are skipped next time)
 - a Done button. There is no next card, autoplay, streak or quota.
+- a note that it is a curated demo card checked against its source, not AI-generated and not live news.
 
 If you skip setup, you get a general card about variable rewards and an invitation to personalise.
 
-**Learning from the demo feed.** You can save Reels and posts in the simulated Instagram. When you've saved two posts on the same topic (for example, architecture), Pause asks on the home screen and in My Interests whether to add it. Nothing is added without your confirmation.
+**Learning from the demo feed.** In the simulated Instagram you can save Reels and posts, and some Reels have an **ⓘ Learn more about …** button. When you've saved or tapped Learn more twice on the same topic (for example, nature), Pause asks on the home screen and in My Interests whether to add it. Nothing is added without your confirmation. Confirmed topics appear under **From the demo feed** in My Interests, where you can remove them, see the raw signal counts, and clear all signals.
 
-**Reward the Exit.** When you stop, Pause offers **one** optional idea based on why you opened Instagram, what you planned to do afterwards, your profile and how much time you have (2, 10 or 30 minutes). Examples: read five pages of the book you're reading, learn one phrase for a city you're visiting (Japanese, Italian, French, Catalan, Turkish), stretch or take a short walk, message a friend, a two-minute puzzle, or one learning card. "Another idea" shows a different one, and "I'm done for now" is always there.
+**Reward the Exit.** When you stop, Pause offers **one** optional idea based on why you opened Instagram, what you planned to do afterwards, your profile and how much time you have (2, 10 or 30 minutes). Examples: read five pages of the book you're reading, learn one phrase for a city you're visiting (Japanese, Italian, French, Catalan, Turkish), take a five-minute walk or stretch, try a recipe you saved (30 minutes, if you're into cooking), read a history article you saved, message a friend, a two-minute puzzle, or one learning card. "Another idea" shows a different one, and "I'm done for now" is always there.
 
 ## What is real and what is simulated
 
@@ -52,9 +55,10 @@ If you skip setup, you get a general card about variable rewards and an invitati
 |---|---|
 | Five-second pause, commitments, purpose reminder, Reel counter, finish line, grayscale extensions, protected mode | Fully working in the simulation |
 | My Interests setup, editing and deleting | Fully working; stored only in this browser (localStorage) |
-| Card selection, quiz, feedback, source links | Fully working; 27 hand-written, fact-checked cards |
+| Card selection, quiz, feedback, source links | Fully working; 29 hand-written cards checked against their linked sources |
+| Matching your own words to cards | Working; simple keyword list, not AI |
 | Exit ideas and travel phrases | Fully working; chosen from a fixed list |
-| Saving posts and interest suggestions | Working inside the demo feed only |
+| Saving posts, Learn more and interest suggestions | Working inside the demo feed only |
 | Instagram feed, Reels, messages | Simulated. No connection to Instagram |
 | Importing Instagram interests | **Not implemented.** The code has a placeholder (`INTEREST_SOURCES.instagramImport`) for a future, consent-based import such as uploading your own Instagram data export. Pause never asks for Instagram passwords, calls Instagram APIs or reads likes, saved posts or private activity. |
 | Current professional news | Not included. Cards cover stable topics, not live news. |
